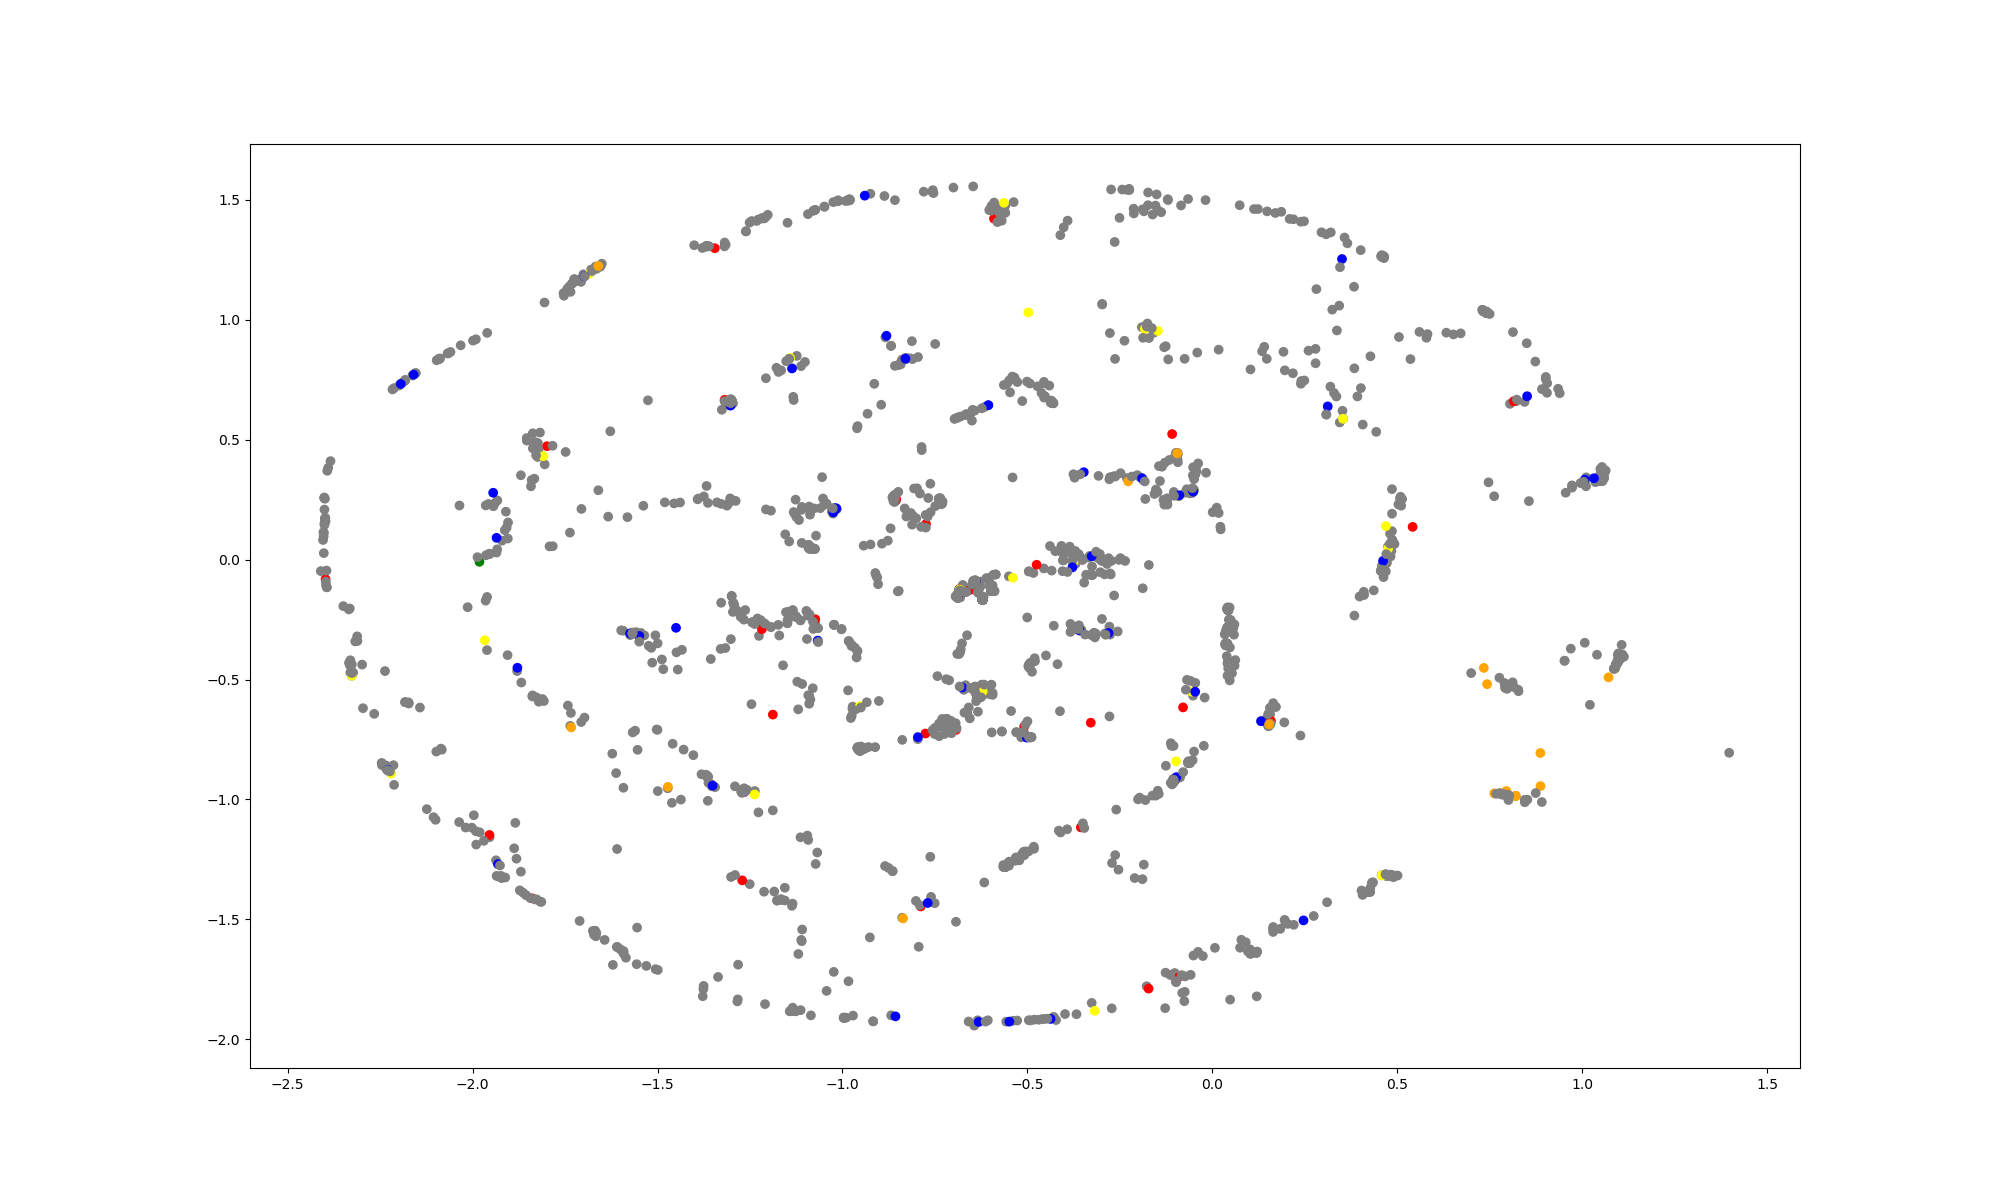
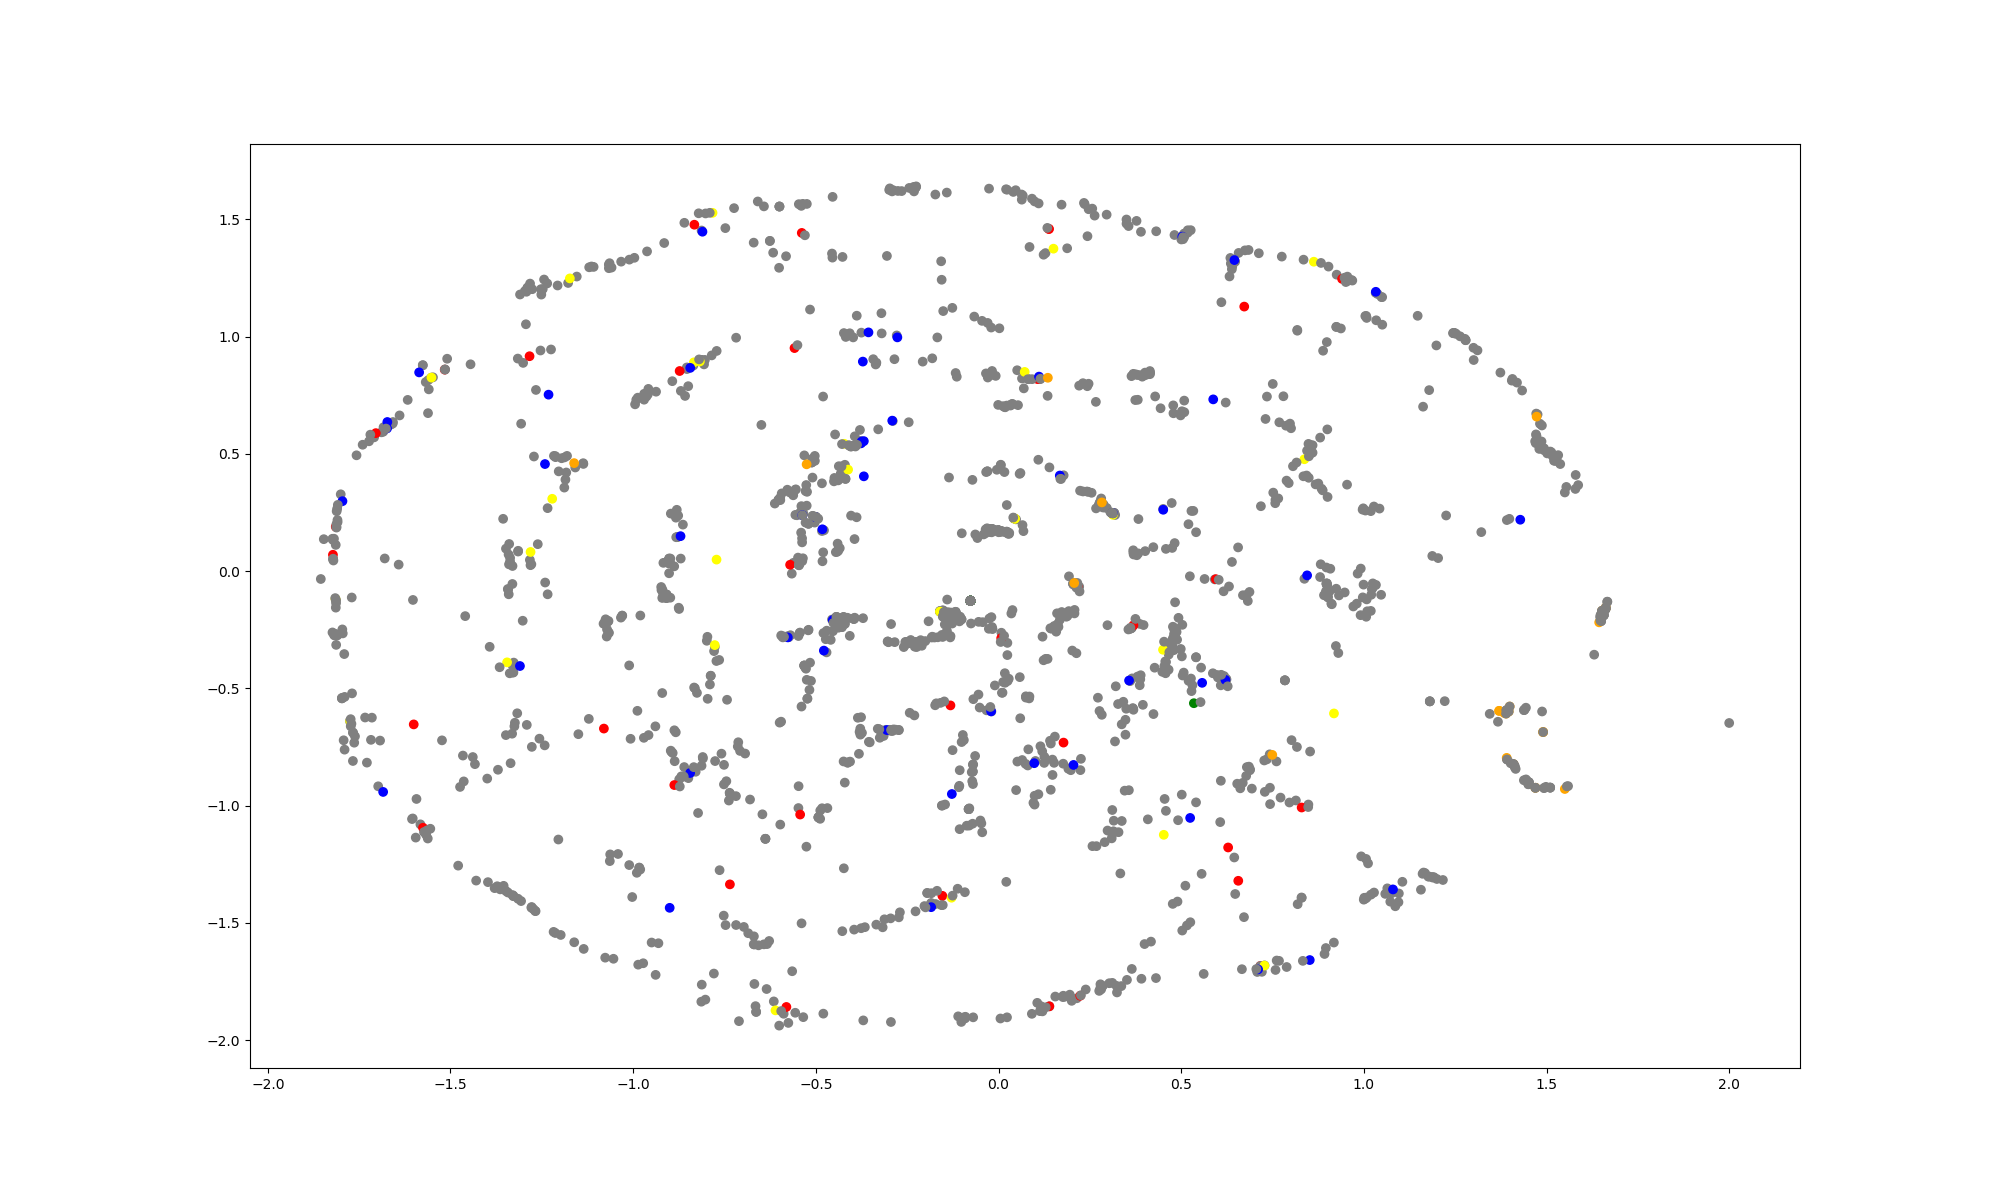
Fix bane outputs

diff --git a/src/visualize/tsne-BANE.py b/src/visualize/tsne-BANE.py
@@ -11,17 +11,19 @@ def main():
     for chr_n in chrm_list:
         chrm = "chr" + str(chr_n)
 
-        # if not (chr_n==13 or chr_n==18 or chr_n==19 or chr_n==20 or chr_n==22 or chr_n==22):
-        #     continue
-
-        if not chr_n == 21:
+        if not (chr_n==13 or chr_n==18 or chr_n==19 or chr_n==20 or chr_n==22 or chr_n==22):
             continue
 
+        # if not chr_n == 21:
+        #     continue
+
         # file = "output/100kb_resolution_intrachromosomal/line-output-128/" + chrm + ".emb"
-        file = "output/50kb_resolution_intrachromosomal/BANE-output-32/" + chrm + ".csv"
+        file = "output/50kb_resolution_intrachromosomal/BANE-output-64/" + chrm + ".csv"
+        # file = "output/50kb_resolution_intrachromosomal/TADW-output-128/" + chrm + ".csv"
 
         # tSNE_output = "output/100kb_resolution_intrachromosomal/line-output-128/tSNE/" + chrm + "-tSNE.txt"
-        tSNE_output = "output/50kb_resolution_intrachromosomal/BANE-output-32/tSNE/" + chrm + "-tSNE.txt"
+        tSNE_output = "output/50kb_resolution_intrachromosomal/BANE-output-64/tSNE/" + chrm + "-tSNE.txt"
+        # tSNE_output = "output/50kb_resolution_intrachromosomal/TADW-output-128/tSNE/" + chrm + "-tSNE.txt"
         out = open(tSNE_output, "w")
 
         bin_list_file = "output/50kb_resolution_intrachromosomal/bin-list/" + chrm + "-bins.txt"
@@ -34,7 +36,7 @@ def main():
         with open(file) as f:
             first_line = f.readline()
             # splitLine = first_line.split()
-            np_data = np.zeros(shape=(len(bin_list), 128))
+            np_data = np.zeros(shape=(len(bin_list), 64))
             index = 0
             for line in f:
                 splitLine = line.split(",")

diff --git a/src/visualize/plot-scatter-tSNE-BANE-TADW.py b/src/visualize/plot-scatter-tSNE-BANE-TADW.py
@@ -12,6 +12,12 @@ def main():
     for chr_n in chrm_list:
         chrm = "chr" + str(chr_n)
 
+        if not (chr_n==13 or chr_n==18 or chr_n==19 or chr_n==20 or chr_n==22 or chr_n==22):
+            continue
+
+        # if not chr_n==21:
+        #     continue
+
         top_domains_file = "output/domain-data/chrm/top-domains/" + chrm + "-topdomains.txt"
 
         top_domains_map = {}
@@ -51,7 +57,7 @@ def main():
         # print(label_map)
 
         # tSNE_output = "output/100kb_resolution_intrachromosomal/line-output-128/tSNE/" + chrm + "-tSNE.txt"
-        tSNE_output = "output/50kb_resolution_intrachromosomal/deepwalk-output-128/tSNE/" + chrm + "-tSNE.txt"
+        tSNE_output = "output/50kb_resolution_intrachromosomal/BANE-output-64/tSNE/" + chrm + "-tSNE.txt"
         # tSNE_output = "output/100kb_resolution_intrachromosomal/chr22-dim2.emb"
 
         X = []
@@ -69,12 +75,14 @@ def main():
 
         plt.figure(figsize=(20, 12))
         plt.scatter(X, Y, color=col)
-        plt.show()
+        # plt.show()
 
         # sys.exit(0)
 
-        plt.savefig("output/graphs-50kb-128dim/BANE/" + chrm + ".png")
+        plt.savefig("output/graphs-50kb/BANE/" + chrm + "-dim64.png")
         # plt.savefig("output/graphs-100kb-128dim/deepwalk/" + chrm + ".png")
+
+
 
 
 if __name__ == '__main__':

diff --git a/src/visualize/plot-scatter-tSNE.py b/src/visualize/plot-scatter-tSNE.py
@@ -12,12 +12,6 @@ def main():
     for chr_n in chrm_list:
         chrm = "chr" + str(chr_n)
 
-        # if not (chr_n==13 or chr_n==18 or chr_n==19 or chr_n==20 or chr_n==22 or chr_n==22):
-        #     continue
-
-        if not chr_n==21:
-            continue
-
         top_domains_file = "output/domain-data/chrm/top-domains/" + chrm + "-topdomains.txt"
 
         top_domains_map = {}
@@ -57,7 +51,7 @@ def main():
         # print(label_map)
 
         # tSNE_output = "output/100kb_resolution_intrachromosomal/line-output-128/tSNE/" + chrm + "-tSNE.txt"
-        tSNE_output = "output/50kb_resolution_intrachromosomal/BANE-output-32/tSNE/" + chrm + "-tSNE.txt"
+        tSNE_output = "output/50kb_resolution_intrachromosomal/deepwalk-output-128/tSNE/" + chrm + "-tSNE.txt"
         # tSNE_output = "output/100kb_resolution_intrachromosomal/chr22-dim2.emb"
 
         X = []
@@ -75,14 +69,12 @@ def main():
 
         plt.figure(figsize=(20, 12))
         plt.scatter(X, Y, color=col)
-        # plt.show()
+        plt.show()
 
         # sys.exit(0)
 
-        plt.savefig("output/graphs-50kb/BANE/" + chrm + "-dim32.png")
+        plt.savefig("output/graphs-50kb-128dim/BANE/" + chrm + ".png")
         # plt.savefig("output/graphs-100kb-128dim/deepwalk/" + chrm + ".png")
-
-
 
 
 if __name__ == '__main__':
